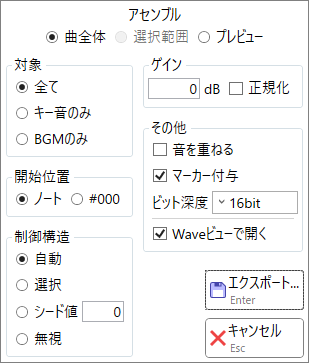
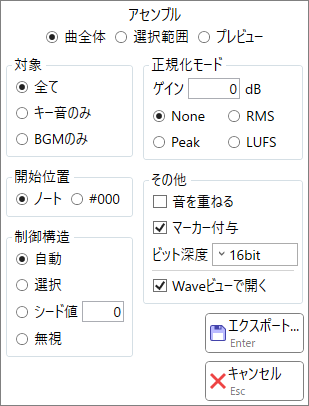
v0.7.41

diff --git a/docs/bms_assemble.html b/docs/bms_assemble.html
@@ -16,6 +16,11 @@
                 <ul>
                     <li>
                         全てのノートを統合すれば、そのBMSの<b>完全な音源</b>を作成できます。
+                        <ul>
+                            <li>
+                                アセンブル完了後には<a href="#result">音量の目安が表示される</a>ため、BMSの音量チェックにも利用できます。
+                            </li>
+                        </ul>
                     </li>
                     <li>
                         一部のノートを統合し、いわば<b>グループ化</b>した新たなキー音を作ることもできます。
@@ -41,14 +46,13 @@
                       2, 52,135,109, bms/assemble_target.html;
                       2,164,135, 57, bms/assemble_start.html;
                       2,224,135,137, bms/assemble_flow.html;
-                    139, 51,168, 61, bms/assemble_gain.html;
-                    224, 76, 74, 25, bms/assemble_normalize.html;
-                    148,137,150, 25, bms/assemble_overlap.html;
-                    148,163,150, 25, bms/assemble_marker.html;
-                    148,189,150, 27, wave/bytes.html;
-                    148,221,150, 25, bms/assemble_view.html;
-                    205,270, 99, 40, bms/assemble_export.html;
-                    205,318, 99, 40, common/cancel_restore.html;
+                    138, 53,170,112, bms/assemble_normalize.html;
+                    148,189,150, 25, bms/assemble_overlap.html;
+                    148,215,150, 25, bms/assemble_marker.html;
+                    148,241,150, 27, wave/bytes.html;
+                    148,273,150, 25, bms/assemble_view.html;
+                    205,313, 99, 40, bms/assemble_export.html;
+                    205,361, 99, 40, common/cancel_restore.html;
                     ">
                 </div>
             </div>
@@ -57,14 +61,13 @@
                 <div class="image-map" src="img/bms_assemble_selection.png" maps="
                      49, 26,233, 22, bms/assemble_mode.html;
                       2, 52,156,138, bms/assemble_replace.html;
-                    160, 51,168, 61, bms/assemble_gain.html;
-                    245, 76, 74, 25, bms/assemble_normalize.html;
-                    169,137,150, 25, bms/assemble_overlap.html;
-                    169,163,150, 25, bms/assemble_marker.html;
-                    169,189,150, 27, wave/bytes.html;
-                    169,221,150, 25, bms/assemble_view.html;
-                    226,261, 99, 40, bms/assemble_export2.html;
-                    226,309, 99, 40, common/cancel_restore.html;
+                    159, 53,170,112, bms/assemble_normalize.html;
+                    169,189,150, 25, bms/assemble_overlap.html;
+                    169,215,150, 25, bms/assemble_marker.html;
+                    169,241,150, 27, wave/bytes.html;
+                    169,273,150, 25, bms/assemble_view.html;
+                    226,313, 99, 40, bms/assemble_export.html;
+                    226,361, 99, 40, common/cancel_restore.html;
                     ">
                 </div>
             </div>
@@ -76,18 +79,39 @@
                      11,103,131, 87, bms/assemble_preview_length.html;
                      11,195,131, 25, bms/assemble_preview_set.html;
                       2,233,149,137, bms/assemble_flow.html;
-                    153, 51,168, 61, bms/assemble_gain.html;
-                    238, 76, 74, 25, bms/assemble_normalize.html;
-                    162,137,150, 25, bms/assemble_overlap.html;
-                    162,163,150, 25, bms/assemble_marker.html;
-                    162,189,150, 27, wave/bytes.html;
-                    162,221,150, 25, bms/assemble_view.html;
-                    219,279, 99, 40, bms/assemble_export.html;
-                    219,327, 99, 40, common/cancel_restore.html;
+                    152, 53,170,112, bms/assemble_normalize.html;
+                    162,189,150, 25, bms/assemble_overlap.html;
+                    162,215,150, 25, bms/assemble_marker.html;
+                    162,241,150, 27, wave/bytes.html;
+                    162,273,150, 25, bms/assemble_view.html;
+                    219,313, 99, 40, bms/assemble_export.html;
+                    219,361, 99, 40, common/cancel_restore.html;
                     ">
                 </div>
             </div>
-            <div class="stack" id="#tolerance">
+            <div class="stack" id="result">
+                <h3>音量情報</h3>
+                アセンブルの完了後、「ファイルを保存」ダイアログが表示される際に、ウィンドウ中央には<b>その音声の音量情報</b>が表示されます。<br>
+                <img src="img/bms_assemble_result.png"/>
+                <ul>
+                    <li>
+                        <b>Gain</b>: 実際に適用された音量変化
+                        <ul>
+                            <li>
+                                この表示は「正規化モード」が「None」以外の場合に意味を持ちます。
+                            </li>
+                            <li>
+                                上の画像では「LUFSを<span class="script">-6dB</span>にするには<span class="script">+0.75dB</span>のゲインが必要」という情報が読み取れます。
+                            </li>
+                            <li>
+                                <a href="browse_audio.html">Browseモード/Audio</a>でこの値を指定して「一括音量変更」を実行すれば、BMSを再生した際のLUFSをこの値に近づけることができます。
+                            </li>
+                        </ul>
+                    </li>
+                    <div class="common" src="wave/info_common.html"></div>
+                </ul>
+            </div>
+            <div class="stack" id="tolerance">
                 <h3>相対時刻の許容誤差</h3>
                 <ul>
                     <li>

diff --git a/docs/bms/assemble_normalize.html b/docs/bms/assemble_normalize.html
@@ -1,16 +1,44 @@
-<h3>正規化</h3>
+<h3>正規化モード</h3>
 <ul>
     <li>
-        チェックした場合、音声を合成し、「ゲイン」を適用した後、<br>
-        <b>ピーク音量</b>が<span class="script">0dB</span>となるように、全体の音量を調節します。
+        音声の作成後に、指定された条件で音量を変更します。
     </li>
     <li>
-        特別な処理は行わず、機械的に増加/減少させるため、<br>
-        コンプレッサーのような効果はありません。
+        <b>None</b>: 正規化は行わず、「ゲイン」で指定された量だけ音量を変更します。
         <ul>
             <li>
-                高度な調整をしたい場合は「ビット深度」を<span class="script">32bit float</span>にして<br>
-                書き出した上で、別途波形編集ソフト等を使ってください。
+                <b>正</b>の値を指定すると、音量は<b>増加</b>します。
+            </li>
+            <li>
+                <b>負</b>の値を指定すると、音量は<b>減少</b>します。
+            </li>
+        </ul>
+    </li>
+    <li>
+        <b>Peak</b>: ピーク(最大振幅)が「ゲイン」の値になるように音量を変更します。
+        <ul>
+            <li>
+                作成した音声に対して更にマスタリングを施す場合、<span class="script">Peak:0dB</span>でのアセンブルを推奨します。
+            </li>
+        </ul>
+    </li>
+    <li>
+        <b>RMS</b>: RMS(平均音量)が「ゲイン」の値になるように音量を変更します。
+        <ul>
+            <li>
+                「ゲイン」は<span class="script">-8dB</span>以下にすることを推奨します。
+            </li>
+            <li>
+                音声の前後の余白や途中の無音が多い場合は小さい値になるため、<br>
+                「聴覚的なうるささ」の指標には後述のLUFSを参照してください。
+            </li>
+        </ul>
+    </li>
+    <li>
+        <b>LUFS</b>: LUFS(ラウドネス)が「ゲイン」の値になるように音量を変更します。
+        <ul>
+            <li>
+                「ゲイン」は<span class="script">-5dB</span>以下にすることを推奨します。
             </li>
         </ul>
     </li>

diff --git a/docs/wave/info.html b/docs/wave/info.html
@@ -12,40 +12,7 @@
         クリックすると表示を裏面に切り替えます。<br>
         <img src="img/window_wave_tab_general_ura.png"/>
         <ul>
-            <li>
-                <b>Peak</b>: サンプル単位での絶対値の最大値
-                <ul>
-                    <li>
-                        この値が<span class="script">0dB</span>を超えている場合、再生環境によっては音割れが発生します。
-                    </li>
-                    <li>
-                        一般に、マスタリング前の2mixと呼ばれる音源では、この値が<span class="script">0dB</span>を下回るように全体音量を下げる必要があります。
-                    </li>
-                </ul>
-            </li>
-            <li>
-                <b>RMS</b>: チャンネルごとの<a href="https://ja.wikipedia.org/wiki/%E4%BA%8C%E4%B9%97%E5%B9%B3%E5%9D%87%E5%B9%B3%E6%96%B9%E6%A0%B9" target="_blank">二乗平均平方根</a>の平均
-                <ul>
-                    <li>
-                        この音声の平均音量を示します。
-                    </li>
-                    <li>
-                        機械的に平均を取るため、前後の無音が多い音源ではこの値は小さめになります。<br>
-                        「聴覚的なうるささ」の指標には後述のLUFSを参照してください。
-                    </li>
-                </ul>
-            </li>
-            <li>
-                <b>LUFS</b>: <a href="https://en.wikipedia.org/wiki/LUFS">Loudness units relative to full scale</a>
-                <ul>
-                    <li>
-                        RMSを人間の聴覚特性に合わせて加工した値で、概ね「聴覚的なうるささ」の指標になります。
-                    </li>
-                    <li>
-                        目指すべき値を一つ決めておくと楽曲の音量感を統一できます。具体的な値は条件次第で変わります。
-                    </li>
-                </ul>
-            </li>
+            <div class="common" src="wave/info_common.html"></div>
         </ul>
     </li>
 </ul>

diff --git a/docs/history.html b/docs/history.html
@@ -10,6 +10,30 @@
         <div class="content">
             <ul>
                 <li>
+                    <details id="0_7_41">
+                        <summary class="a-like">Version 0.7.40 (2025/10/25)</summary>
+                        <ul>
+                            <li>
+                                仕様変更
+                                <ul>
+                                    <li>
+                                        <a href="bms_assemble.html">BMSモード/アセンブル</a>において、以下のように変更しました。
+                                        <ul>
+                                            <li>
+                                                「ゲイン」の名称を「正規化モード」に変更し、正規化の基準にRMSやLUFSを選択できるようにしました。
+                                            </li>
+                                            <li>
+                                                アセンブルの完了後、保存ダイアログを表示する際に、ウィンドウ中央にアセンブルした音声の音量情報を表示するようにしました。
+                                            </li>
+                                        </ul>
+                                    </li>
+                                </ul>
+                            </li>
+                        </ul>
+                        <br>
+                    </details>
+                </li>
+                <li>
                     <details id="0_7_40">
                         <summary class="a-like">Version 0.7.40 (2025/10/24)</summary>
                         <ul>

diff --git a/docs/wave/info_common.html b/docs/wave/info_common.html
@@ -1,0 +1,34 @@
+<li>
+    <b>Peak</b>: 最大振幅の絶対値
+    <ul>
+        <li>
+            この値が<span class="script">0dB</span>を超えている場合、再生環境によっては音割れが発生します。
+        </li>
+        <li>
+            一般に、マスタリング前の2mixと呼ばれる音源では、この値が<span class="script">0dB</span>を下回るように全体音量を下げる必要があります。
+        </li>
+    </ul>
+</li>
+<li>
+    <b>RMS</b>: <a href="https://ja.wikipedia.org/wiki/%E4%BA%8C%E4%B9%97%E5%B9%B3%E5%9D%87%E5%B9%B3%E6%96%B9%E6%A0%B9" target="_blank">二乗平均平方根</a>
+    <ul>
+        <li>
+            この音声の平均音量を示します。
+        </li>
+        <li>
+            機械的に平均を取るため、前後の余白が多い音源ではこの値は小さくなります。<br>
+            「聴覚的なうるささ」の指標には後述のLUFSを参照してください。
+        </li>
+    </ul>
+</li>
+<li>
+    <b>LUFS</b>: <a href="https://en.wikipedia.org/wiki/LUFS">Loudness units relative to full scale</a>
+    <ul>
+        <li>
+            RMSを人間の聴覚特性に合わせて加工した値で、概ね「聴覚的なうるささ」の指標になります。
+        </li>
+        <li>
+            目指すべき値を一つ決めておくと楽曲の音量感を統一できます。具体的な値は条件次第で変わります。
+        </li>
+    </ul>
+</li>
